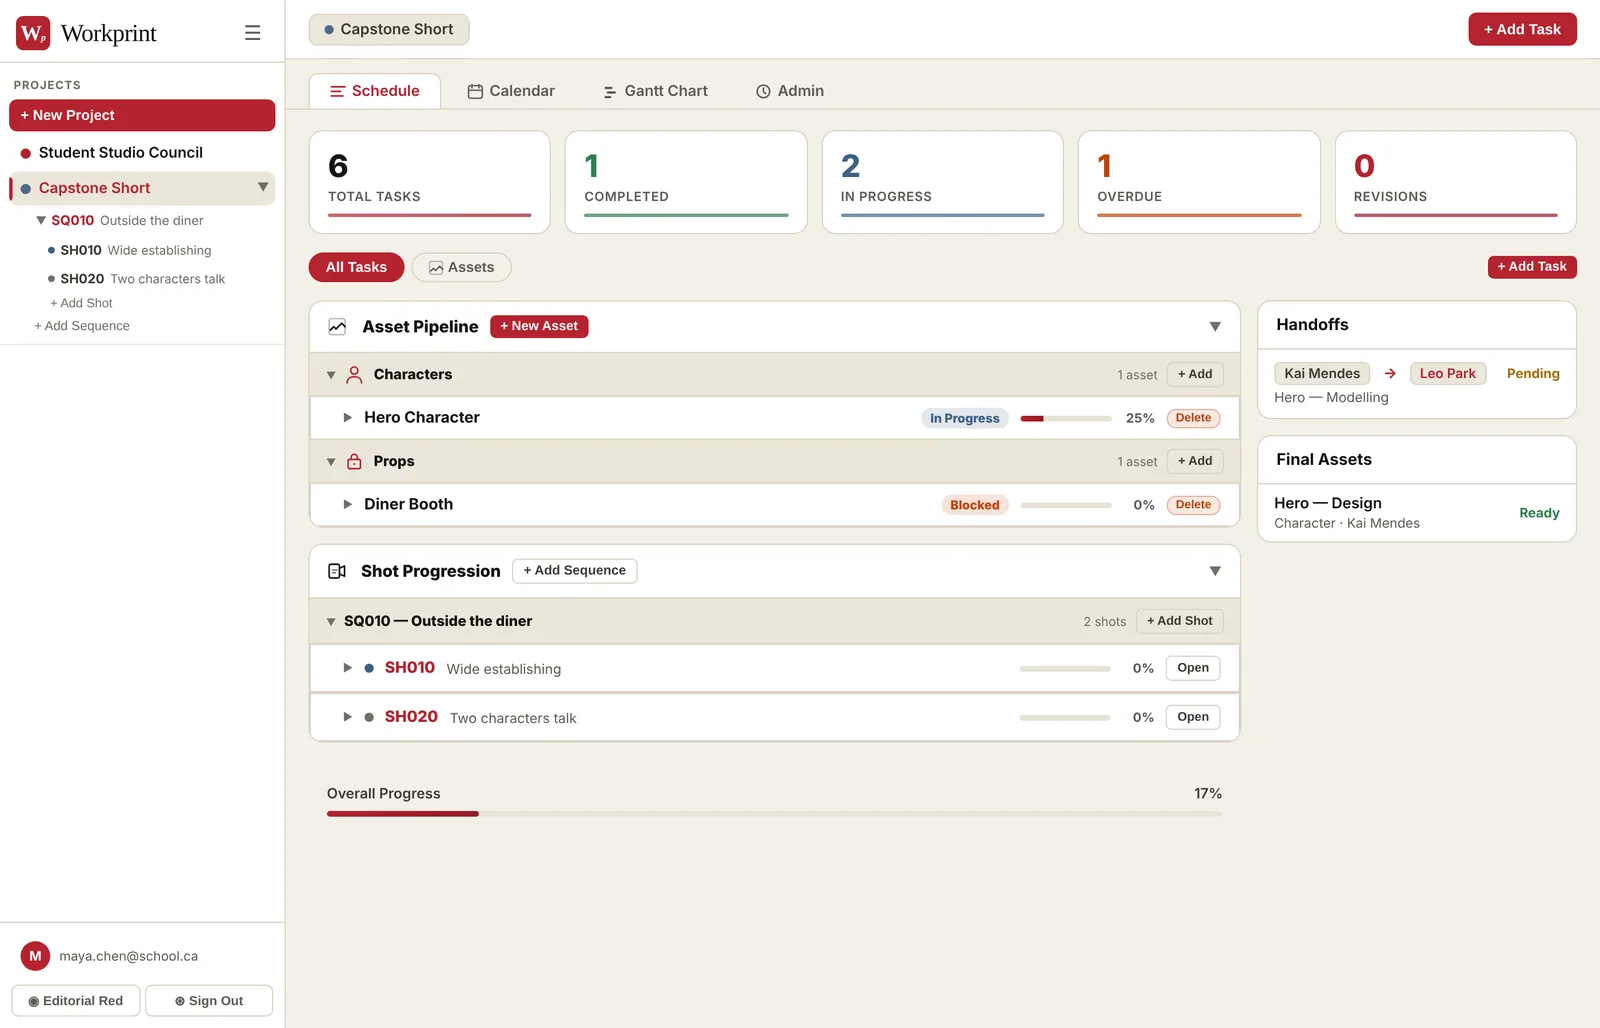
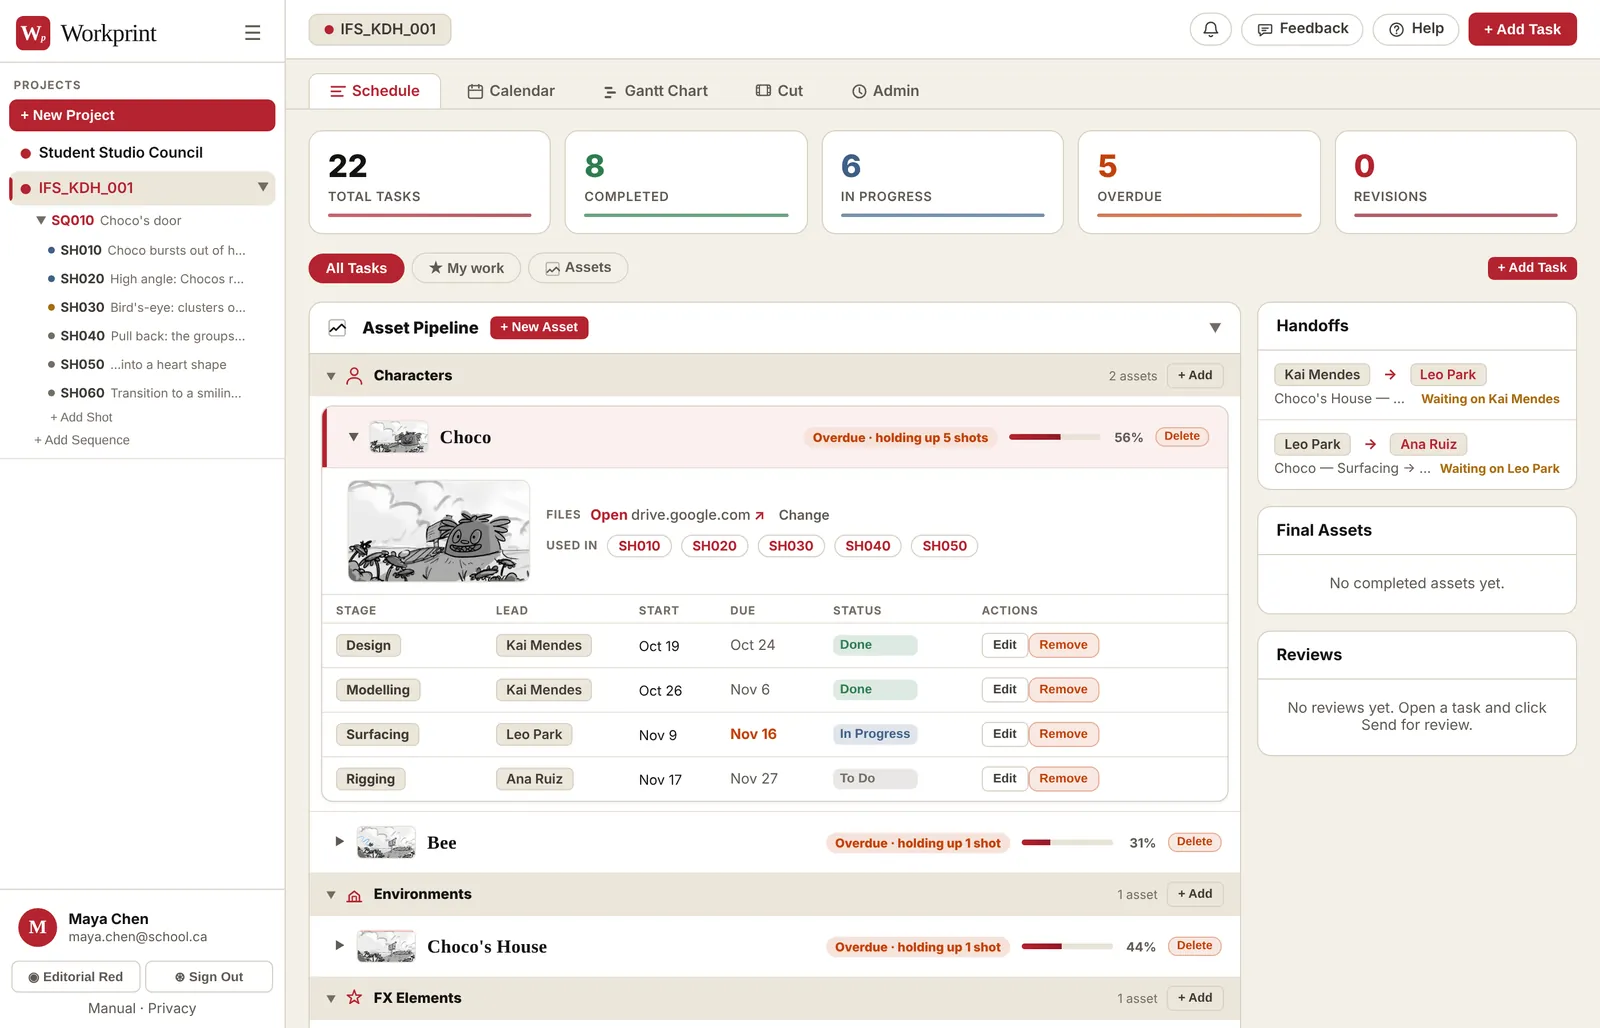
Manual: IFS_KDH_001 as the example film (cover, production, shots, shot page, Cut); softer asset warning on the shot page
Claude-Session: https://claude.ai/code/session_01BqWNHTUcYciVcn2LWhjNd9

diff --git a/manual.html b/manual.html
@@ -53,6 +53,7 @@
   @media(max-width:880px){.layout{grid-template-columns:minmax(0,1fr);gap:0;}nav.toc{position:static;max-height:none;border-bottom:1px solid var(--line);padding-bottom:18px;columns:2;}nav.toc .lbl{column-span:all;}}
   @media(max-width:520px){nav.toc{columns:1;}}
   @media print{nav.toc,.open{display:none;}.layout{display:block;}h2{break-before:page;}figure{break-inside:avoid;}}
+  figure.cover{margin:0 0 22px;}figure.cover img{border-radius:12px;box-shadow:none;border:none;}figure.cover figcaption{font-size:.78rem;color:var(--ink3);margin-top:8px;font-style:italic;}
 </style>
 </head>
 <body>
@@ -88,6 +89,7 @@
 </nav>
 
 <main>
+  <figure class="cover"><img src="manual/cover.webp" width="1600" height="900" alt="A colour frame from the short film IFS_KDH_001: Choco peeks out of his door among the flowers"><figcaption>From <em>IFS_KDH_001</em>, the example film used throughout this manual.</figcaption></figure>
   <h1>Workprint manual</h1>
   <p class="lede">A shared schedule for teams: who is doing what, by when, and who is waiting on whom.</p>
   <p>Open Workprint at <a href="/">getworkprint.app</a>. This manual covers every screen, in plain words, with pictures from the app.</p>
@@ -346,7 +348,7 @@
 
   <h2 id="production">Production projects</h2>
   <p>Production projects track two kinds of work: <strong>assets</strong> (characters, props, sets) moving through a pipeline, and <strong>shots</strong> moving through departments.</p>
-  <figure><img src="manual/production.webp" width="1600" height="1028" alt="A Production project: asset pipeline and shots" loading="lazy"></figure>
+  <figure><img src="manual/production.webp" width="1600" height="1028" alt="A Production project: the asset pipeline, with the character Choco open showing its picture, files link, the shots it appears in and its four stages" loading="lazy"></figure>
   <h3>Asset pipeline</h3>
   <p>Each asset, e.g. <em>Hero Character</em>, gets one task per stage. Its card shows a progress bar and a badge: Not Started, In Progress, Overdue (a stage is past its due date) or Ready (every stage done).</p>
   <p>The progress bar counts every stage in the asset type's pipeline, even ones you haven't added yet. A stage In Progress counts a quarter, In Review three quarters, and Done the full stage. So a Character with Design done and Modelling in review is at 44%: (1 + 0.75) out of 4 stages.</p>
@@ -365,6 +367,7 @@
     <li>Under a sequence, click <strong>+ Add Shot</strong>. The next code is filled in for you too. Give the shot start and due dates so it shows on the Gantt chart.</li>
     <li>Click a shot to open its <strong>shot page</strong>.</li>
   </ol>
+  <figure><img src="manual/shots.webp" width="1600" height="1028" alt="Shot Progression: six shots with pictures from the storyboard, and the sequence running time 0:11 of 0:11" loading="lazy"></figure>
   <h3>Shot codes</h3>
   <p>Workprint picks up the style you already use (SH, SQ010_SH, three digits, steps of 10) and fills in the next free code. Beside it, the <strong>position</strong> list offers every place a new shot can go: <em>At the end</em>, <em>Before SH010</em>, <em>After SH020</em> and so on. Picking “After SH020” gives an in-between code like SH025, so the shots stay in film order. You can still type any code yourself.</p>
   <p>To start a sequence quickly, set <strong>How many shots</strong> to, say, 8: Workprint adds SH010 to SH080 in one go. Add descriptions on each shot afterwards.</p>
@@ -380,6 +383,7 @@
   </ul>
 
   <h3>Pictures and file locations</h3>
+  <figure><img src="manual/shot-page.webp" width="1600" height="434" alt="The top of a shot page: the shot's picture, a server path under Files, and the asset warning" loading="lazy"></figure>
   <p>Every shot and every asset can have a small picture and a link to where its files live. The picture shows in the lists, on the shot page and in the Cut.</p>
   <ol>
     <li>Grab a frame: a storyboard panel, or a screen grab of Maya with <strong>Win + Shift + S</strong> (Windows) or <strong>Cmd + Ctrl + Shift + 4</strong> (Mac).</li>
@@ -418,6 +422,7 @@
     <li><strong>Where each shot is</strong> shows every shot in sequence order, with one bar per shot task: grey ready, blue in progress, gold in review, green approved. Click a shot to open it.</li>
   </ul>
   <p>Approving or sending back a cut doesn't change any task; it records the decision on that version.</p>
+  <figure><img src="manual/cut.webp" width="1600" height="1028" alt="The Cut tab: the animatic playing, its version notes, and every shot with its picture and the film's running time" loading="lazy"></figure>
 
   <h2 id="calendar">Calendar and Gantt chart</h2>
   <p>Both show the same tasks as the Schedule. Change a date in one and it changes everywhere.</p>

diff --git a/index.html b/index.html
@@ -302,7 +302,7 @@ header{background:var(--bg2);border-bottom:1px solid var(--border);padding:11px 
 .shot-section-body{padding:14px 16px;}
 .storyboard-textarea{width:100%;background:var(--bg4);border:1px solid var(--border);border-radius:8px;padding:11px 12px;color:var(--text);font-size:.84rem;line-height:1.6;outline:none;resize:vertical;min-height:140px;font-family:inherit;}
 .storyboard-textarea:focus{border-color:var(--purple);}
-.dependency-banner { background: #450a0a; color: #fca5a5; border: 1px solid #b91c1c; border-radius: 8px; padding: 10px 14px; font-size: .8rem; font-weight: 600; display: flex; align-items: center; gap: 10px; margin-top: 14px; }
+.dependency-banner { background: color-mix(in srgb,var(--late) 10%,var(--bg2)); color: var(--late); border: 1px solid color-mix(in srgb,var(--late) 35%,transparent); border-radius: 8px; padding: 10px 14px; font-size: .8rem; font-weight: 600; display: flex; align-items: center; gap: 10px; margin-top: 14px; }
 
 /* SHOT ASSETS PANEL */
 .shot-asset-item{display:flex;align-items:center;gap:10px;padding:10px 14px;border-bottom:1px solid var(--border2);}
